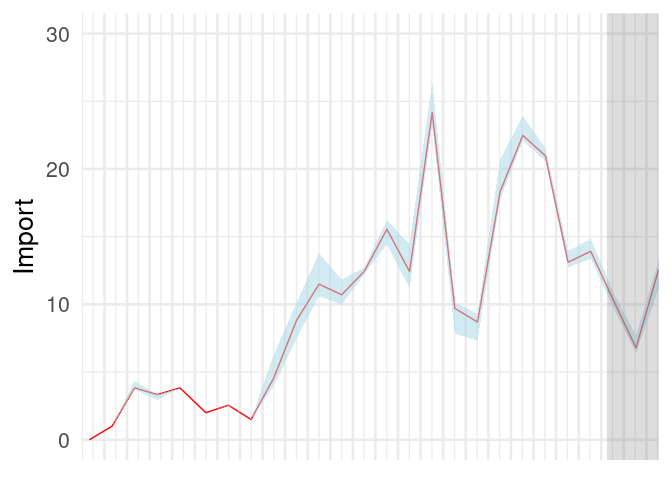
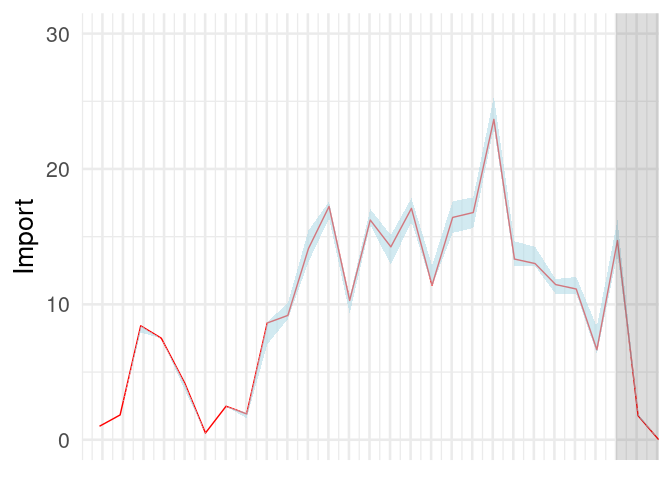
updated june 28th

Changed region(s): [[0.125, 0.0312, 0.9688, 0.9688], [0.9688, 0.5625, 1.0, 0.625]]

diff --git a/UK_results.md b/UK_results.md
@@ -1,6 +1,6 @@
 Results - B.1.1.7, “Alpha variant”
 ================
-21/06/2021
+28/06/2021
 
 Phylogeographic mapping
 
@@ -27,11 +27,11 @@ lineage and TMRCA denotes the age of the lineage.
 
 ##### Table 1. Estimated number of infections in Norway resulting from import and local transmission based on the phylogeographic analyses in Figure 1.
 
-|                    |      2.5% |      50% |     97.5% |
-|:-------------------|----------:|---------:|----------:|
-| Import             |  251.9000 |  261.500 |  267.8750 |
-| Local transmission | 3636.1250 | 3642.500 | 3652.1000 |
-| Import / Total     |    0.0645 |    0.067 |    0.0686 |
+|                    |     2.5% |       50% |     97.5% |
+|:-------------------|---------:|----------:|----------:|
+| Import             |  272.225 |  275.5000 |  283.5500 |
+| Local transmission | 3718.450 | 3726.5000 | 3729.7750 |
+| Import / Total     |    0.068 |    0.0688 |    0.0709 |
 
 Next, we estimate the fraction of introductions relative to local
 transmission over time. In these and subsequent analyses it is important
